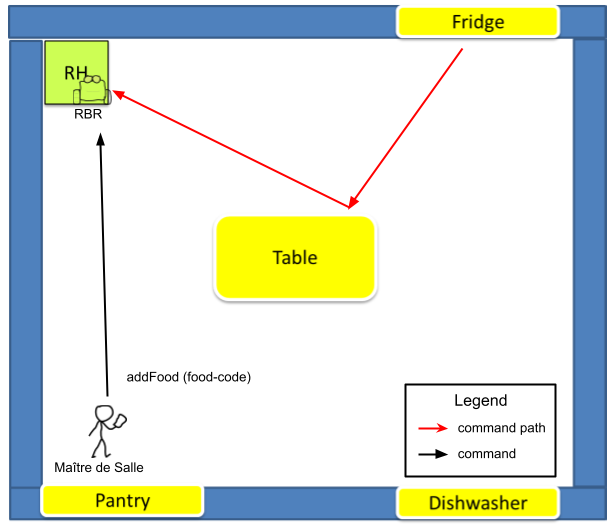
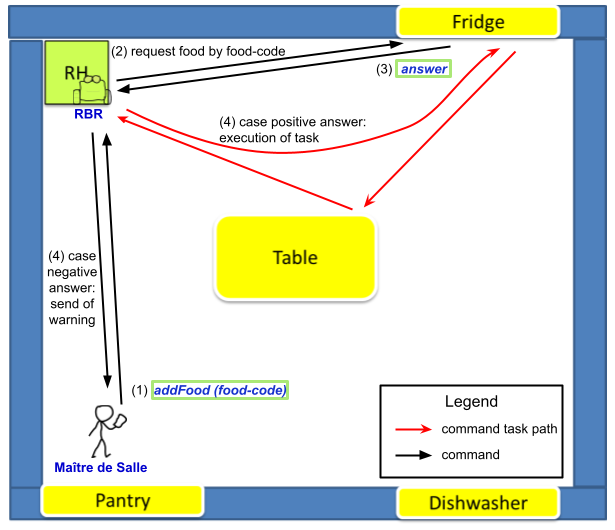
last update Requirements Analysis

diff --git a/userDocs/Analisi.html b/userDocs/Analisi.html
@@ -22,18 +22,18 @@
 
 Keeping in mind the motto: <bc>"there is no code without a project, no project without problem analysis and no problem without requirements"</bc>, this document presents a possible solution to the requirements provided by the customer, achieved with a top-down approach in three main phase: requirements analysis, problem analysis and a design phase.
 
-<h2 id="req_text">Requirements</h2>
+<h2>Requirements</h2>
 
 <div class="remark">
-Below it's shown the <a href="./utils/tf/TemaFinaleBo19.html" target="_black">requirements text</a> provided by the customer.<br>
-<iframe src="./utils/tf/TemaFinaleBo19.html" title="Requirements text"><a href="./utils/tf/TemaFinaleBo19.html" target="_black">Requirements Text Link</a></iframe>
+Below it's shown the <a href="./utils/tf/TemaFinaleBo19.html" target="_blank">requirements text</a> provided by the customer.<br>
+<iframe src="./utils/tf/TemaFinaleBo19.html" title="Requirements text"><a href="./utils/tf/TemaFinaleBo19.html" target="_blank">Requirements Text Link</a></iframe>
 </div>
 
 <h2>Requirement analysis</h2>
 
 <h3>Glossary</h3>
 
-By the interaction with the customer, here it's exposed a essential glossary about the meaning of the names and of the verbs included in the <a href="#req_text">requirements text</a> given by the customer.
+By the interaction with the customer, here it's exposed an essential glossary about the meaning of the names and of the verbs included in the <a href="./utils/tf/TemaFinaleBo19.html" target="_blank">requirements text</a> given by the customer.
 <br><br>
 <table>
 <tr>
@@ -66,11 +66,11 @@ By the interaction with the customer, here it's exposed a essential glossary abo
 </tr>
 <tr>
 	<td class="title"><ks>RBR - <i>Room Butler Robot</i></ks></td>
-	<td>It's a <ks>DDR</ks> able to work as a Room Butler: it must be able to comunicate with <ks>maître's smartphone</ks> and <ks>fridge</ks> and to walk around the <ks>room</ks> to execute the <ks>task</ks>, avoiding the fixed and mobile obstacles. When system starts and when it's not executing any <ks>task</ks>, it must be in the <ks>RH</ks> position.</td>
+	<td>It's a <ks>DDR</ks> able to work as a Room Butler: it must be able to comunicate with <ks>maître's smartphone</ks> and <ks>fridge</ks> and to walk around the <ks>room</ks> to execute the <ks>task</ks>, avoiding the fixed and mobile obstacles. When system starts and after it completed a <ks>task</ks>, it must wait new commands in the <ks>RH</ks> position.</td>
 </tr>
 <tr>
 	<td class="title"><ks>DDR - <i>Differential Drive Robot</i></ks></td>
-	<td>The customer provided all the documentation about this topic: the documentation about the basicRobot (at <a href="https://htmlpreview.github.io/?https://raw.githubusercontent.com/anatali/issLab2021/main/it.unibo.qak21.basicrobot/userDocs/basicrobot2021.html" target="_black">basicrobot2021.html</a>), that can be implemented as a virtual robot (at <a href="https://htmlpreview.github.io/?https://raw.githubusercontent.com/anatali/issLab2021/main/it.unibo.virtualRobot2020/userDocs/VirtualRobot2021.html" target="_black">VirtualRobot2021.html</a>) or as a real robot, that can be an mbot (at <a href="https://htmlpreview.github.io/?https://github.com/anatali/issLab2021/blob/main/it.unibo.qak21.basicrobot/userDocs/Mbot2020.html" target="_black">MBot2020.html</a>) or a nano robot (at <a href="https://htmlpreview.github.io/?https://raw.githubusercontent.com/anatali/issLab2021/main/it.unibo.qak21.basicrobot/userDocs/LabNanoRobot.html" target="_black">LabNanoRobot.html</a>).</td>
+	<td>The customer provided all the documentation about this topic: the documentation about the basicRobot (at <a href="https://htmlpreview.github.io/?https://raw.githubusercontent.com/anatali/issLab2021/main/it.unibo.qak21.basicrobot/userDocs/basicrobot2021.html" target="_blank">basicrobot2021.html</a>), that can be implemented as a virtual robot (at <a href="https://htmlpreview.github.io/?https://raw.githubusercontent.com/anatali/issLab2021/main/it.unibo.virtualRobot2020/userDocs/VirtualRobot2021.html" target="_blank">VirtualRobot2021.html</a>) or as a real robot, that can be an mbot (at <a href="https://htmlpreview.github.io/?https://github.com/anatali/issLab2021/blob/main/it.unibo.qak21.basicrobot/userDocs/Mbot2020.html" target="_blank">MBot2020.html</a>) or a nano robot (at <a href="https://htmlpreview.github.io/?https://raw.githubusercontent.com/anatali/issLab2021/main/it.unibo.qak21.basicrobot/userDocs/LabNanoRobot.html" target="_blank">LabNanoRobot.html</a>).</td>
 </tr>
 <tr>
 	<td class="title"><ks>RH - <i>Robot Home</i></ks></td>
@@ -82,11 +82,11 @@ By the interaction with the customer, here it's exposed a essential glossary abo
 </tr>
 <tr>
 	<td class="title"><ks>Prepare the room</ks></td>
-	<td>This task consists in putting on the <ks>table</ks> dishes taken from the <ks>pantry</ks> and food taken from the <ks>fridge</ks>. The set of items to put on the table is fixed and it's properly described somewhere.</td>
+	<td>This <ks>task</ks> consists in putting on the <ks>table</ks> dishes taken from the <ks>pantry</ks> and food taken from the <ks>fridge</ks>. The set of items to put on the <ks>table</ks> is fixed and it's properly described somewhere.</td>
 </tr>
 <tr>
 	<td class="title"><ks>Add food</ks></td>
-	<td>This task consists in putting on the <ks>table</ks> some specific food (defined by a <ks>food-code</ks>) taken from the <ks>fridge</ks> if it exists.</td>
+	<td>This <ks>task</ks> consists in putting on the <ks>table</ks> some specific food (defined by a <ks>food-code</ks>) taken from the <ks>fridge</ks> if it exists.</td>
 </tr>
 <tr>
 	<td class="title"><ks>food-code</ks></td>
@@ -94,13 +94,13 @@ By the interaction with the customer, here it's exposed a essential glossary abo
 </tr>
 <tr>
 	<td class="title"><ks>Clear the room</ks></td>
-	<td>This task consists in putting in the <ks>dishwasher</ks> and in the <ks>fridge</ks> respectively dishes and non-consumed food taken from the <ks>table</ks>.</td>
+	<td>This <ks>task</ks> consists in putting in the <ks>fridge</ks> and in the <ks>dishwasher</ks> respectively non-consumed food and dishes taken from the <ks>table</ks>.</td>
 </tr>
 </table>
 
 <h3>Requirements analysis</h3>
 
-Once we have understood the main concepts set by the <a href=#req_text>requirements text</a> given by the customer, it's now possible to analyze them.
+Once we have understood the main concepts set by the <a href="./utils/tf/TemaFinaleBo19.html" target="_blank">requirements text</a> given by the customer, it's now possible to analyze them.
 <br><br>
 <table>
 <tr>
@@ -108,7 +108,7 @@ Once we have understood the main concepts set by the <a href=#req_text>requireme
 	<ul>
 		<li><ks>RBR</ks>, running on its own <kc>robotNode</kc>;</li>
 		<li><ks>maître's smartphone</ks>, running on a <kc>maitreNode</kc>;</li>
-		<li><ks>fridge</ks>, running on a <kc>fridgeNode</kc>. </li>
+		<li><ks>fridge</ks>, running on a <kc>fridgeNode</kc>.</li>
 	</ul>
 	</td>
 	<td class="image"><img src="./utils/img/threeEntities.png" alt="Three entities"></td>
@@ -116,7 +116,7 @@ Once we have understood the main concepts set by the <a href=#req_text>requireme
 <tr>
 	<td>The software running on <kc>maitreNode</kc> must allow <ks>Maître de Salle</ks> to:
 	<ul>
-		<li>send the commands to <ks>RBR</ks> to execute tasks or to stop and reactive them;</li>
+		<li>send the commands to <ks>RBR</ks> to execute <ks>tasks</ks> or to stop and reactive them;</li>
 		<li>known and to show the objects related to each resources (smart and non-smart), so he must be able to comunicate with <ks>fridge</ks> too.</li>
 	</ul>
 	</td>
@@ -148,48 +148,6 @@ Once we have understood the main concepts set by the <a href=#req_text>requireme
 
 <h4>Scenario</h4>
 
-Here, it's illustrated a possible scenario of the system:
-<br><br>
-<ol>
-	<li>The <ks>room</ks> is empty, beside the <ks>Maître de Salle</ks>. The <ks>RBR</ks> is on its <ks>RH</ks>. The <ks>fridge</ks> and the <ks>pantry</ks> are embedded with a proper set of items; while the <ks>dishwasher</ks> is empty.</li>
-	<li>The <ks>Maître de Salle</ks> sends the command <em>prepare</em> (for the <ks>task</ks> <ks>Prepare the room</ks>) to the <ks>RBR</ks> and wait. The <ks>RBR</ks> executes the <ks>task</ks> related to the command and at the end he returns to its <ks>RH</ks>.</li>
-	<li>The party starts and the <ks>room</ks> is opened to people: so now there are other obstacoles in the <ks>room</ks>. The <ks>Maître de Salle</ks> can sends at any time to <ks>RBR</ks> the command <em>addFood (food-code)</em> (for the <ks>task</ks> <ks>Add food</ks>). The <ks>RBR</ks> asks to <ks>fridge</ks> if it has the food specified by <ks>food-code</ks> and the <ks>fridge</ks> answers to <ks>RBR</ks>, via CoAP, with command <em>answer</em>. If the <ks>fridge</ks> doesn't contain that food, then the <ks>RBR</ks> sends a warning to the <ks>Maître de Salle</ks>; otherwise the <ks>RBR</ks> executes the <ks>task</ks> and then he returns to its <ks>RH</ks>.</li>
-	<li>At the end of the party the <ks>room</ks> is empty again, beside the <ks>Maître de Salle</ks>. The <ks>Maître de Salle</ks> sends to <ks>RBR</ks> the command <em>clear</em> (for the <ks>task</ks> <ks>Clear the room</ks>) and wait. The <ks>RBR</ks> executes the <ks>task</ks> and then he returns to its <ks>RH</ks>.</li>
-</ol>
-At every time of the service:
-	<ul>
-		<li>the <ks>Maître de Salle</ks> can use command <em>consult</em> to know the state of each element in the <ks>room</ks>. In this case, the <ks>fridge</ks> answers via CoAP, using the command <em>expose</em>, to show its content.</li>
-		<li>the <ks>Maître de Salle</ks> can use the command <em>stop</em> or <em>reactive</em> to stop or restart an activated <ks>task</ks>.</li>
-		<li>The <ks>RBR</ks> must <em>avoid</em> the obstacles.</li>
-	</ul>
-
-
-<h4>Test Plans</h4>
-
-It's necessary to make some test plans that must be verified for the correct working of the final system, according to the requirements provided by the customer. Below it's reported a first planning of tests.
-<br><br>
-<ol>
-<li>At the start of the system, it's necessary to verify that the <ks>RBR</ks> is positioned on (the cell of???) its <ks>RH</ks>. (BISOGNA TESTARE LO STATO ANCHE DEGLI ALTRI ELEMENTI DELLA STRANZA??????)</li>
-<li>Tests of: the communications between entities (maitre-RBR); the path (EFFETTUATO)/carried out by the <ks>RBR</ks> that must be the one expected to execute/perform the <ks>task</ks> required by the <ks>Maître de Salle</ks>; (same as in step '1').</li>
-<li>Tests of: (same as in step '2') the communications between entities (// and viceversa, RBR-fridge and viceversa); // if possible (if the fridge contains the food required); (same as in step '1').</li>
-<li>Tests of: (same as in step '2' and '1').</li>
-<li>Tests of the content/state(?????? È NECESSARIO???) of each element in the room and of all the communications between entities.</li>
-<li>Test on the functionality (????????) of the <ks>RBR</ks> to avoid all the possible obstacles.</li>
-</ol>
-<hr>
-<ul>
-<li>Test(S??) of the position of the <ks>RBR</ks> that must be on its <ks>RH</ks> when system starts and at the end of each <ks>task</ks>.</li>
-<li>Test(S??) of all the communications between entities (maitre - RBR, maitre - fridge, RBR - fridge and each vice versa).</li>
-<li>Test(S??) of the path (EFFETTUATO)/carried out by the <ks>RBR</ks> that must be the one expected to execute/perform the <ks>task</ks> required by the <ks>Maître de Salle</ks>.</li>
-<li>(QUESTO PUò ANDAR BENE???)Test of the state of the robot to verify its reaction when it receives command stop or reactive (E PER SAPERE COSA STA FACENDO? MA QUESTO E CIÒ CHE FACCIAMO PER SAPERE SE IL PERCORSO EFFETTUATO DA RBR SIA QUELLO GIUSTO! QUINDI TEST NON NECESSARIO????????)</li>
-<li>Test on the functionality (????????) of the <ks>RBR</ks> to avoid all the possible obstacles.</li>
-Test sulla posizione del robot all'interno della stanza <br>
-Test sugli stati delle entità ad ogni transizione del sistema.
-</ul>
-
-
-<h4>Scenario</h4>
-
 Here, it's illustrated a possible scenario of the system.
 <br><br>
 <table>
@@ -199,31 +157,46 @@ Here, it's illustrated a possible scenario of the system.
 </tr>
 <tr>
 	<td><ol><li>The <ks>room</ks> is empty, beside the <ks>Maître de Salle</ks>. The <ks>RBR</ks> is on its <ks>RH</ks>. The <ks>fridge</ks> and the <ks>pantry</ks> are embedded with a proper set of items; while the <ks>dishwasher</ks> is empty.</li></ol></td>
-	<td class="imageScenario"><img src="./utils/img/InitialScenario.png" alt="Initial scenario"></td>
+	<td class="image"><img src="./utils/img/InitialScenario.png" alt="Initial scenario"></td>
 </tr>
 <tr>
-	<td><ol start="2"><li>The <ks>Maître de Salle</ks> sends the command <em>prepare</em> (for the <ks>task</ks> <ks>Prepare the room</ks>) to the <ks>RBR</ks> and wait. The <ks>RBR</ks> executes the <ks>task</ks> related to the command and at the end he returns to its <ks>RH</ks>.</li></ol></td>
+	<td><ol start="2"><li>The <ks>Maître de Salle</ks> sends the <em>prepare</em> command (for the <ks>task</ks> <ks>Prepare the room</ks>) to the <ks>RBR</ks> and waits. The <ks>RBR</ks> executes the <ks>task</ks> related to the command and at the end he returns to its <ks>RH</ks>.</li></ol></td>
 	<td class="imageScenario"><img src="./utils/img/ScenarioPrepare.png" alt="Scenario 'Prepare the room'"></td>
 </tr>
 <tr>
-	<td><ol start="3"><li>The party starts and the <ks>room</ks> is opened to people: so now there are other obstacoles in the <ks>room</ks>. The <ks>Maître de Salle</ks> can sends at any time to <ks>RBR</ks> the command <em>addFood (food-code)</em> (for the <ks>task</ks> <ks>Add food</ks>). The <ks>RBR</ks> asks to <ks>fridge</ks> if it has the food specified by <ks>food-code</ks> and the <ks>fridge</ks> answers to <ks>RBR</ks>, via CoAP, with command <em>answer</em>. If the <ks>fridge</ks> doesn't contain that food, then the <ks>RBR</ks> sends a warning to the <ks>Maître de Salle</ks>; otherwise the <ks>RBR</ks> executes the <ks>task</ks> and then he returns to its <ks>RH</ks>.</li></ol></td>
+	<td><ol start="3"><li>The party starts and the <ks>room</ks> is opened to people: so now there are other obstacoles in the <ks>room</ks>. The <ks>Maître de Salle</ks> can send at any time to <ks>RBR</ks> the <em>addFood (food-code)</em> command (for the <ks>task</ks> <ks>Add food</ks>). The <ks>RBR</ks> asks to <ks>fridge</ks> if it has the food specified by <ks>food-code</ks> and the <ks>fridge</ks> answers to <ks>RBR</ks>, via CoAP, with <em>answer</em> command. If the <ks>fridge</ks> doesn't contain that food, then the <ks>RBR</ks> sends a warning to the <ks>Maître de Salle</ks>; otherwise the <ks>RBR</ks> executes the <ks>task</ks> and then he returns to its <ks>RH</ks>.</li></ol></td>
 	<td class="imageScenario"><img src="./utils/img/ScenarioAddFood.png" alt="Scenario 'Add food'"></td>
 </tr>
 <tr>
-	<td><ol start="4"><li>At the end of the party the <ks>room</ks> is empty again, beside the <ks>Maître de Salle</ks>. The <ks>Maître de Salle</ks> sends to <ks>RBR</ks> the command <em>clear</em> (for the <ks>task</ks> <ks>Clear the room</ks>) and wait. The <ks>RBR</ks> executes the <ks>task</ks> and then he returns to its <ks>RH</ks>.</li></ol></td>
+	<td><ol start="4"><li>At the end of the party the <ks>room</ks> is empty again, beside the <ks>Maître de Salle</ks>. The <ks>Maître de Salle</ks> sends to <ks>RBR</ks> the <em>clear</em> command (for the <ks>task</ks> <ks>Clear the room</ks>) and waits. The <ks>RBR</ks> executes the <ks>task</ks> and then he returns to its <ks>RH</ks>.</li></ol></td>
 	<td class="imageScenario"><img src="./utils/img/ScenarioClear.png" alt="Scenario 'Clear the room'"></td>
 </tr>
 <tr>
-	<td>At every time of the service:
+	<td colspan="2">At every time of the service:
 	<ul>
-		<li>the <ks>Maître de Salle</ks> can use command <em>consult</em> to know the state of each element in the <ks>room</ks>. In this case, the <ks>fridge</ks> answers via CoAP, using the command <em>expose</em>, to show its content.</li>
-		<li>the <ks>Maître de Salle</ks> can use the command <em>stop</em> or <em>reactive</em> to stop or restart an activated <ks>task</ks>.</li>
+		<li>the <ks>Maître de Salle</ks> can use <em>consult</em> command to know the state of each element in the <ks>room</ks>. In this case, the <ks>fridge</ks> answers via CoAP, using the <em>expose</em> command, to show its content.</li>
+		<li>the <ks>Maître de Salle</ks> can use the <em>stop</em> or <em>reactive</em> command to stop or restart an activated <ks>task</ks>.</li>
 		<li>The <ks>RBR</ks> must <em>avoid</em> the obstacles.</li>
 	</ul>
 	</td>
-	<td class="imageScenario"><img src="./utils/img/ScenarioConsult.png" alt="Scenario Consult"></td>
+<!--	<td class="imageScenario"><img src="./utils/img/ScenarioConsult.png" alt="Scenario Consult"></td>-->
 </tr>
 </table>
+
+<h4>Test Plans</h4>
+
+It's necessary to make some test plans that must be verified for the correct working of the final system, according to the requirements provided by the customer. <br>Below it's reported a first planning of tests:
+<br><br>
+<ul>
+<li>Tests of the position of the <ks>RBR</ks> that must be on its <ks>RH</ks> when system starts and at the end of each <ks>task</ks>;</li>
+<li>Tests of the states for each element in the <ks>room</ks> at the start and at the end of the service and at the end of each <ks>task</ks>;</li>
+<li>Tests of all the communications between entities;</li>
+<li>Tests of the path carried out by the <ks>RBR</ks> that must be the one expected to execute the <ks>task</ks> required by the <ks>Maître de Salle</ks>;</li>
+<li>Tests of the state of the <ks>RBR</ks> to verify that it is stopped after receiving <em>stop</em> command and to verify that it resumes <ks>task</ks> execution after receiving the <em>reactive</em> command;</li>
+<li>Test of the capability of the <ks>RBR</ks> to <em>avoid</em> all the possible obstacles.</li>
+</ul>
+
+<h2>Problem analysis</h2>
 
 <h3>A first model of the system architecture</h3>
 
@@ -276,18 +249,6 @@ Comunication Fridge - RBR answer:answer(Y) Y(Y=[yes,no]) {
 </tr>
 </table>
 
-<h2>Problem analysis</h2>
-
-<h3>Requirements traceability</h3>
-
-[achievied from the requirement analysis]
-Using a meta-model written in a machine-understandble language, like QActor, we can obtain aN UNIVOQUE representation of the system architecture that describes the associations between requirements and the running elements (represented by the actors).
-
-<a href="./Analisi.qak" target="_black">representation of a system architecture</a><br>
-<iframe src="./Analisi.qak" title="sysArchRepr">
-<a href="./Analisi.qak" target="_black">representation of a system architecture</a>
-</iframe>
-
 <h3>Problem analysis</h3>
 
 The main goal of problem analysis can be summarized as follows:
@@ -331,6 +292,16 @@ In our scenario:
 	<dd>Possibilità di popolarlo all'avvio del sistema.</dd>
 </dl></li>
 </ol>
+
+<h3>Requirements traceability</h3>
+
+[achievied from the requirement analysis]
+Using a meta-model written in a machine-understandble language, like QActor, we can obtain aN UNIVOQUE representation of the system architecture that describes the associations between requirements and the running elements (represented by the actors).
+
+<a href="./Analisi.qak" target="_black">representation of a system architecture</a><br>
+<iframe src="./Analisi.qak" title="sysArchRepr">
+<a href="./Analisi.qak" target="_black">representation of a system architecture</a>
+</iframe>
 
 <h2>Test plans</h2> 
 

diff --git a/userDocs/utils/style.css b/userDocs/utils/style.css
@@ -75,6 +75,7 @@ tt {
 	color: #006600;
 }
 
+/*for commands*/
 em {
 	font-family: "Arial";
 	font-size: 80%;
@@ -84,6 +85,7 @@ em {
 	color: #1632cc;
 }
 
+/*highlighted words in red*/
 bc {
 	font-family: "Arial";
 	font-size: 90%;
@@ -92,6 +94,7 @@ bc {
 	background-color: #fcf8c7;
 }
 
+/*for key words*/
 ks {
 	font-family: "Arial";
 	font-weight: bold;
@@ -160,6 +163,7 @@ div.imagedesc {
 	width: 85%;
 	margin: auto;
 }
+
 div.endpage {
 	background-color:rgba(86, 56, 253, 0.9);
 	width:100%;
